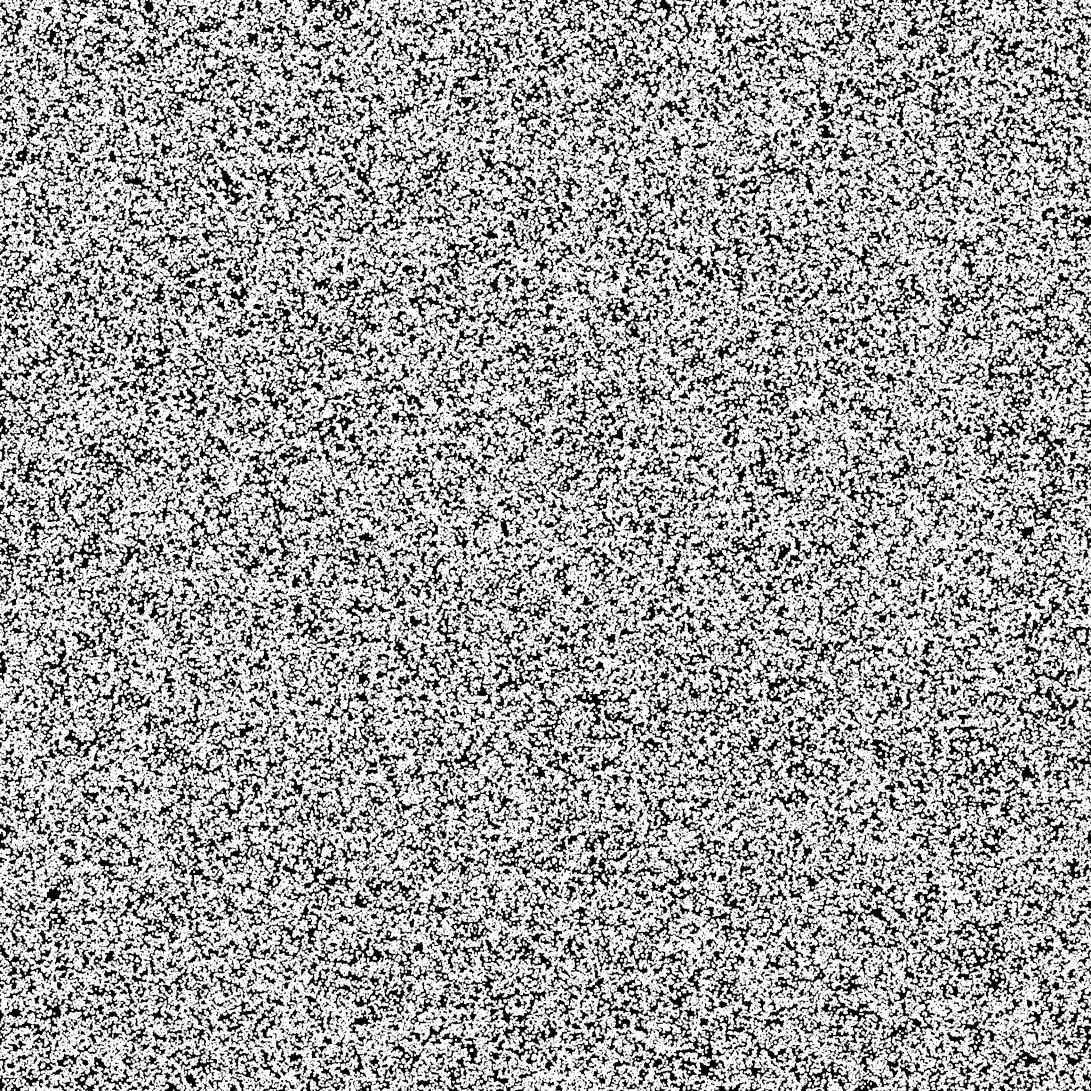
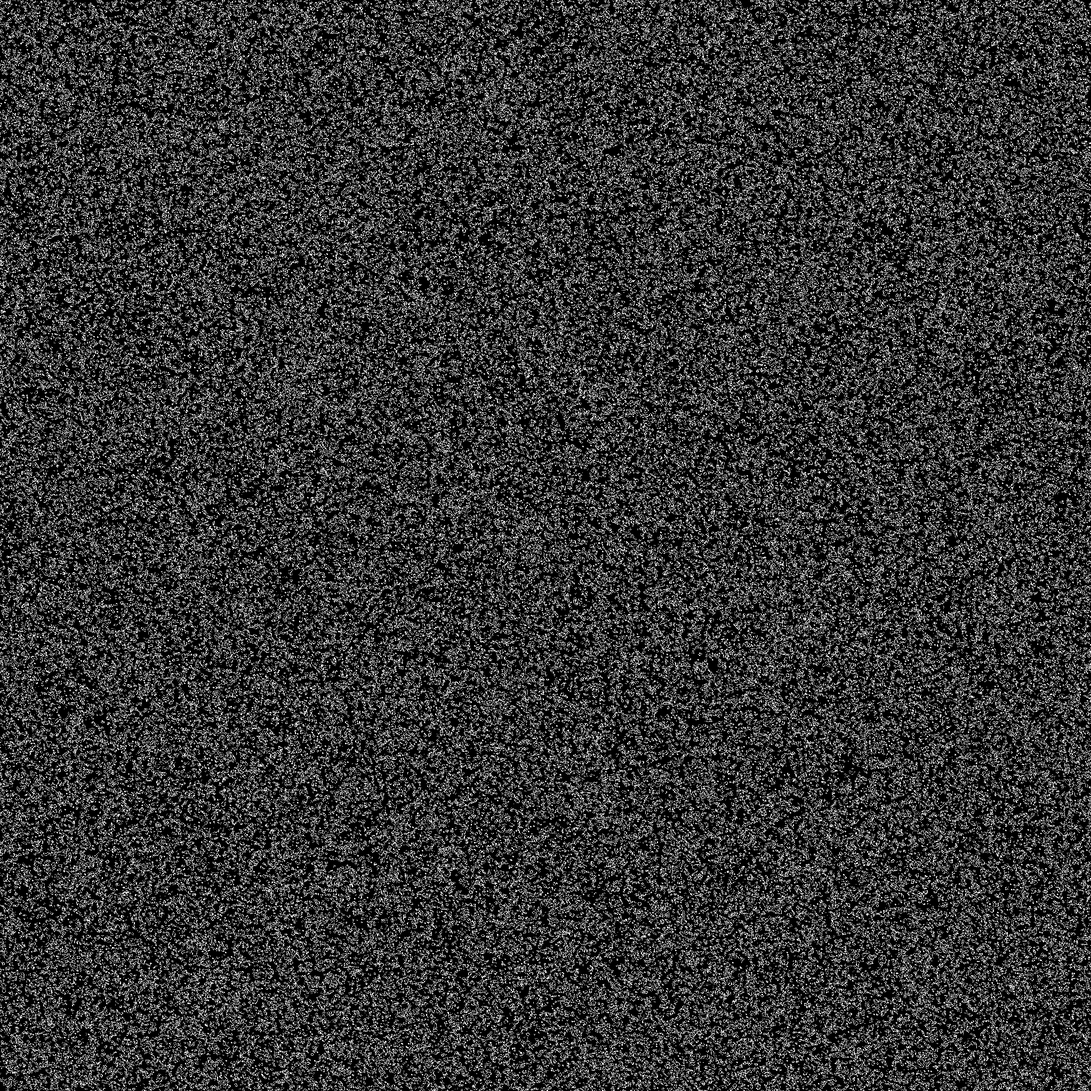
refactor: Simplify memory conversion in main.rs and improve output in convolution.wgsl

diff --git a/src/main.rs b/src/main.rs
@@ -70,10 +70,7 @@ async fn main() {
 
     img.save("hca_game_of_life_test.png").unwrap();
 
-    let mem = copy_mem
-        .iter()
-        .map(|x| 255. * x.0 as f32)
-        .collect::<Vec<f32>>();
+    let mem = copy_mem.iter().map(|x| x.0 as f32).collect::<Vec<f32>>();
 
     graph.compute(Image {
         data: mem,
@@ -98,6 +95,16 @@ fn process_wgpu<const D: usize>(input: Image) {
     println!("kernel.size: {:?}", kernel.size);
 
     let device = create_gpu_device();
-    let output = futures::executor::block_on(wgpu::run(&device, &input, &kernel));
+    let mut output = futures::executor::block_on(wgpu::run(&device, &input, &kernel));
+
+    println!(
+        "output: {:?}",
+        output.data.iter().take(200).collect::<Vec<&f32>>()
+    );
+
+    output.data.iter_mut().for_each(|x| {
+        *x *= 255.0;
+    });
+
     output.save("output.png");
 }
